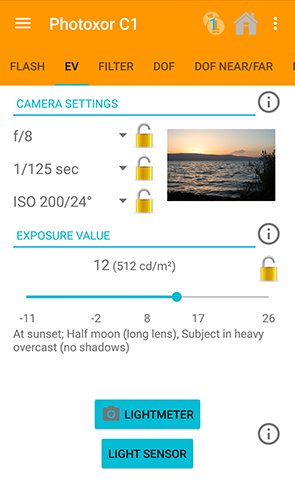
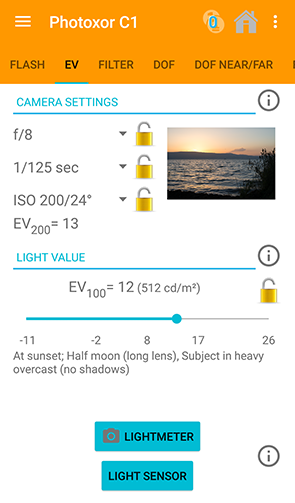
Photoxor C1  1.5.1  (57) Release Update

diff --git a/help/c1/en/help.htm b/help/c1/en/help.htm
@@ -16,21 +16,21 @@
 <div class="toc">
 <ul>
   <li><a href="#L4277">Introduction</a></li>
-  <li><a href="#L4316">Startup Screen</a> 
+  <li><a href="#L4316">Startup Screen</a>
     <ul>
       <li><a href="#L4323">Icon Arrangement</a></li>
       <li><a href="#L1920">Navigation Drawer</a></li>
     </ul>
   </li>
-  <li><a href="#L4883">Application Widget</a> 
+  <li><a href="#L4883">Application Widget</a>
     <ul>
       <li><a href="#L468">Full Widget 4x1</a></li>
       <li><a href="#L495">Torch Only Widget 1x1</a></li>
     </ul>
   </li>
-  <li><a href="#L576">Photography Calculations</a> 
+  <li><a href="#L576">Photography Calculations</a>
     <ul>
-      <li><a href="#L581">Exposure (EV)</a> 
+      <li><a href="#L581">Exposure (EV)</a>
         <ul>
           <li><a href="#L205">EV from Camera Settings</a></li>
           <li><a href="#L851">Exposure Value (EV)</a></li>
@@ -38,9 +38,9 @@
           <li><a href="#L222">Lightmeter</a></li>
         </ul>
       </li>
-      <li><a href="#L586">Filter Stack (FILTER)</a> 
+      <li><a href="#L586">Filter Stack (FILTER)</a>
         <ul>
-          <li><a href="#L1067">Camera Settings without Filter</a> 
+          <li><a href="#L1067">Camera Settings without Filter</a>
             <ul>
               <li><a href="#L8449">User Presets</a></li>
             </ul>
@@ -57,15 +57,15 @@
       <li><a href="#L12559">Flash</a></li>
     </ul>
   </li>
-  <li><a href="#L4334">Tracking and Ephemeris</a> 
+  <li><a href="#L4334">Tracking and Ephemeris</a>
     <ul>
-      <li><a href="#L4342">TRACKING Screen</a> 
+      <li><a href="#L4342">TRACKING Screen</a>
         <ul>
           <li><a href="#L4396">Audio Recording</a></li>
           <li><a href="#L4401">Finish Logging</a></li>
         </ul>
       </li>
-      <li><a href="#L4432">MAP Screen</a> 
+      <li><a href="#L4432">MAP Screen</a>
         <ul>
           <li><a href="#L2618">Map Button Row</a></li>
           <li><a href="#L712">Map Tracking</a></li>
@@ -74,7 +74,7 @@
         </ul>
       </li>
       <li><a href="#L4469">PLACES Screen</a></li>
-      <li><a href="#L3403">EPHEMERIS Screen</a> 
+      <li><a href="#L3403">EPHEMERIS Screen</a>
         <ul>
           <li><a href="#L4345">Graph</a></li>
           <li><a href="#L3413">Compass Rose</a></li>
@@ -86,12 +86,12 @@
       <li><a href="#L3018">Location Search</a></li>
     </ul>
   </li>
-  <li><a href="#L1469">Tools</a> 
+  <li><a href="#L1469">Tools</a>
     <ul>
       <li><a href="#L1471">Torch</a></li>
     </ul>
   </li>
-  <li><a href="#L21478">In-App Purchases</a> 
+  <li><a href="#L21478">In-App Purchases</a>
     <ul>
       <li><a href="#L21490">No-Advertisement</a></li>
       <li><a href="#L21502">High Precision Values</a></li>
@@ -99,11 +99,11 @@
       <li><a href="#L21512">Tracking Pro</a></li>
     </ul>
   </li>
-  <li><a href="#L4492">Settings</a> 
+  <li><a href="#L4492">Settings</a>
     <ul>
-      <li><a href="#L4494">General Settings</a> 
+      <li><a href="#L4494">General Settings</a>
         <ul>
-          <li><a href="#L20979">Settings - Definition Lists</a> 
+          <li><a href="#L20979">Settings - Definition Lists</a>
             <ul>
               <li><a href="#L20983">List Features</a></li>
               <li><a href="#L3695">Settings - My Cameras</a></li>
@@ -117,7 +117,7 @@
           </li>
           <li><a href="#L13312">Settings - Comfortable viewing angle</a></li>
           <li><a href="#L13314">Settings - Human eye resolution</a></li>
-          <li><a href="#L3705">Settings - Configuration</a> 
+          <li><a href="#L3705">Settings - Configuration</a>
             <ul>
               <li><a href="#L3707">Precision</a></li>
               <li><a href="#L3709">Stop scale</a></li>
@@ -137,7 +137,7 @@
         </ul>
       </li>
       <li><a href="#L4549">Tracking Settings</a></li>
-      <li><a href="#L6765">Ephemeris Settings</a> 
+      <li><a href="#L6765">Ephemeris Settings</a>
         <ul>
           <li><a href="#L6769">Settings - My Locations</a></li>
         </ul>
@@ -150,7 +150,7 @@
 
 <h2 id="L4277">Introduction</h2>
 
-<p>This document is for Photoxor C1 version 1.5.0 (56), which can be installed
+<p>This document is for Photoxor C1 version 1.5.1 (57), which can be installed
 or updated for free from <a name="Google" id="Google"
 href="http://play.google.com/store/apps/details?id=com.photoxor.fotoapp">Google
 Play</a>.</p>
@@ -308,8 +308,18 @@ confusion. </p>
 
 <p>This screen enables you to perform exposure calculations in two ways:
 calculate the exposure value from your camera settings, or - in reverse - enter
-an exposure value (use the <a href="#L222">lightmeter</a> for an indicative
+a light value (or use the <a href="#L222">lightmeter</a> for an indicative
 value) and determine the best camera settings.</p>
+
+<p>Traditionally the term "Exposure Value" (EV) is a measure for the effects of
+aperture and shutterspeed only. To calculate the correct exposure for a
+specific lighting scenario, meaning the luminance of the scene, the ISO
+sensitivity needs to be considered as well. We note the measured light value as
+the EV at ISO 100, with the notation EV<sub>100</sub>.</p>
+
+<p>The traditional EV calculated from aperture and shutterspeed is noted with
+the ISO value as subscript, for example EV<sub>200</sub> for the EV value at
+ISO 200.</p>
 
 <p><img alt="Screenshot Exposure" src="../images/Screenshot_ev_p_en.png"
 width="295" height="499" /></p>
@@ -374,7 +384,7 @@ this sensor to measure illuminance. Press the Light Sensor button and a dialog
 window is shown. The measured light intensity is shown in lux together with the
 calculated exposure value (EV). Once you accept the measurement, the EV is set
 and become locked. Camera settings are adjusted to reflect the EV. <a
-id="Filter"></a>
+id="Filter"></a> 
 
 <p>Please note that the EV shown is based on ISO 100.</p>
 
@@ -1289,8 +1299,9 @@ calculations.
       Zeiss formula and shown in micrometer (&mu;m).</dd>
     <dd>You may define your own CoC value, entered in micrometer (&mu;m).</dd>
 </dl>
- 
+
 <p><a id="LensList"></a><a id="LensDetails"></a> </p>
+
 <h5 id="L1674">Settings - My Lenses</h5>
 
 <p>Lens definitions are used for Depth of Field (DoF) calculations. </p>
@@ -1304,7 +1315,8 @@ calculations.
 </dl>
 
 <p></p>
-<a id="FilterList"></a> <a id="FilterDetails"></a>
+<a id="FilterList"></a> <a id="FilterDetails"></a> 
+
 <h5 id="L3697">Settings - My Filters</h5>
 Filter definitions are used in exposure calculations to determine the level of
 light reductions. Currently all filters are treated as neutral density (ND)
